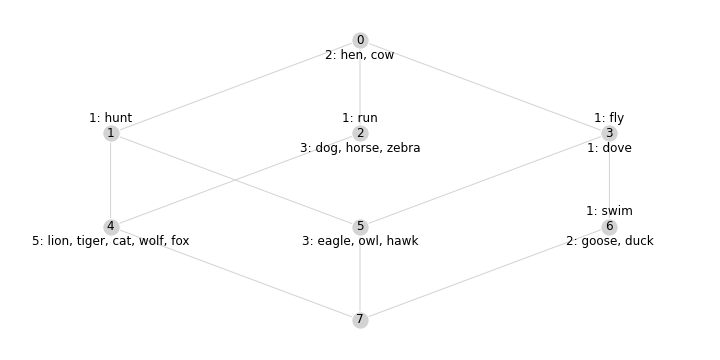
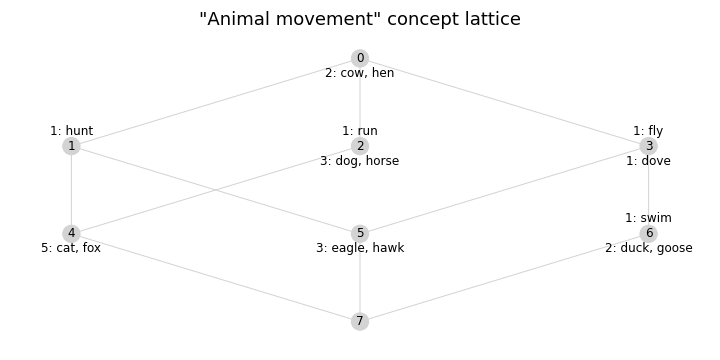
Update visualizer code in README.md

diff --git a/README.md b/README.md
@@ -121,18 +121,15 @@ print(L.top_concept_i, L.bottom_concept_i)
 One can draw Hasse diagram of the lattice by `visualizer` subpackage:
 ```python
 import matplotlib.pyplot as plt
-from fcapy.visualizer import ConceptLatticeVisualizer
-
-plt.figure(figsize=(10, 5))
-
-vsl = ConceptLatticeVisualizer(L)
-vsl.draw_networkx(max_new_extent_count=5, draw_node_indices=True)
-
-plt.xlim(-0.7,0.7)
-plt.axis(False)
+from fcapy.visualizer import LineVizNx
+fig, ax = plt.subplots(figsize=(10, 5))
+vsl = LineVizNx()
+vsl.draw_concept_lattice(L, ax=ax, flg_node_indices=True)
+ax.set_title('"Animal movement" concept lattice', fontsize=18)
 plt.tight_layout()
 plt.show()
 ```
+
 <p align="center">
   <img width="616" src="https://raw.githubusercontent.com/EgorDudyrev/FCApy/main/docs/images/animal_context_lattice.png" />
 </p>
